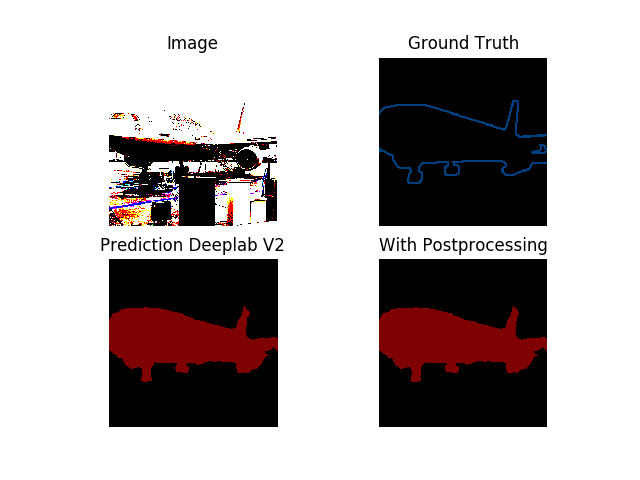
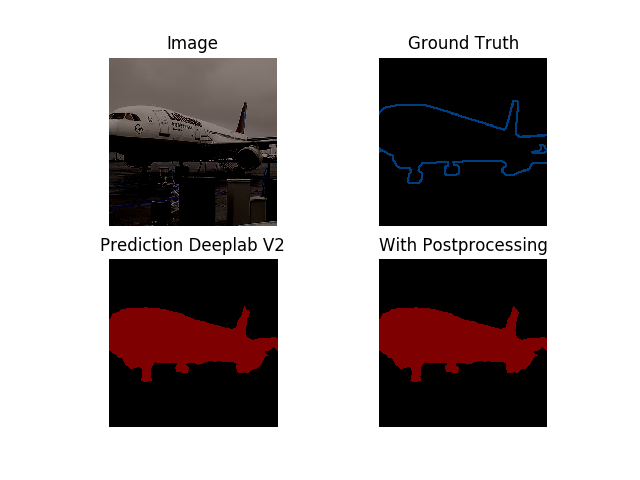
Maybe it even works

Changed region(s): [[0.1562, 0.0938, 0.4375, 0.4688]]

diff --git a/LoadAndVisualizeTensorTest.py b/LoadAndVisualizeTensorTest.py
@@ -65,7 +65,7 @@ image, label, size, name = batch
 size = size[0].numpy()
 gt = np.asarray(label[0].numpy()[:size[0],:size[1]], dtype=np.int)
 image = np.asarray(image[0].numpy()[:size[0],:size[1]], dtype=np.int)
-
+image = image.transpose(1,2,0)
 pred1 = torch.load('/root/VOC12_After_Deeplab_Test/prediction' + str(args.index) + '.pth', map_location='cpu')
 pred1 = changeOutput(pred1)
 pred2 = torch.load('/root/VOC12_After_Deeplab_Test/prediction' + str(args.index) + '.pth', map_location='cpu') #change to new one!!!
